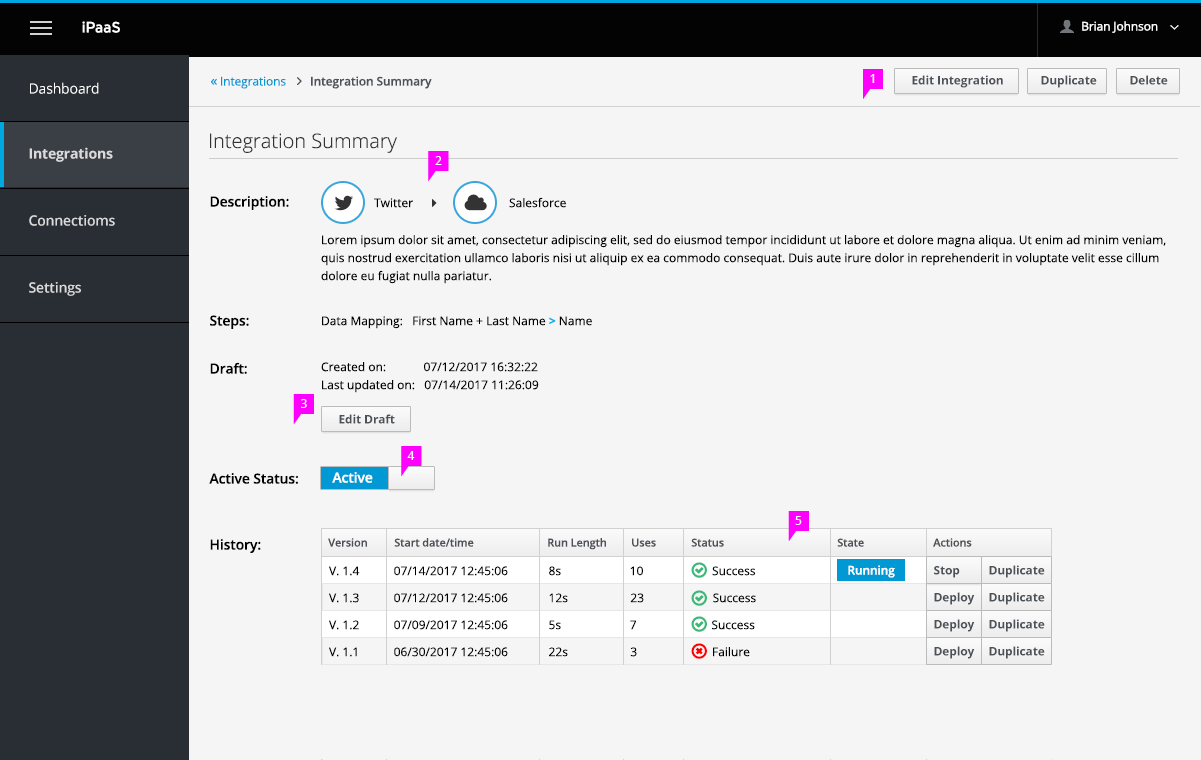
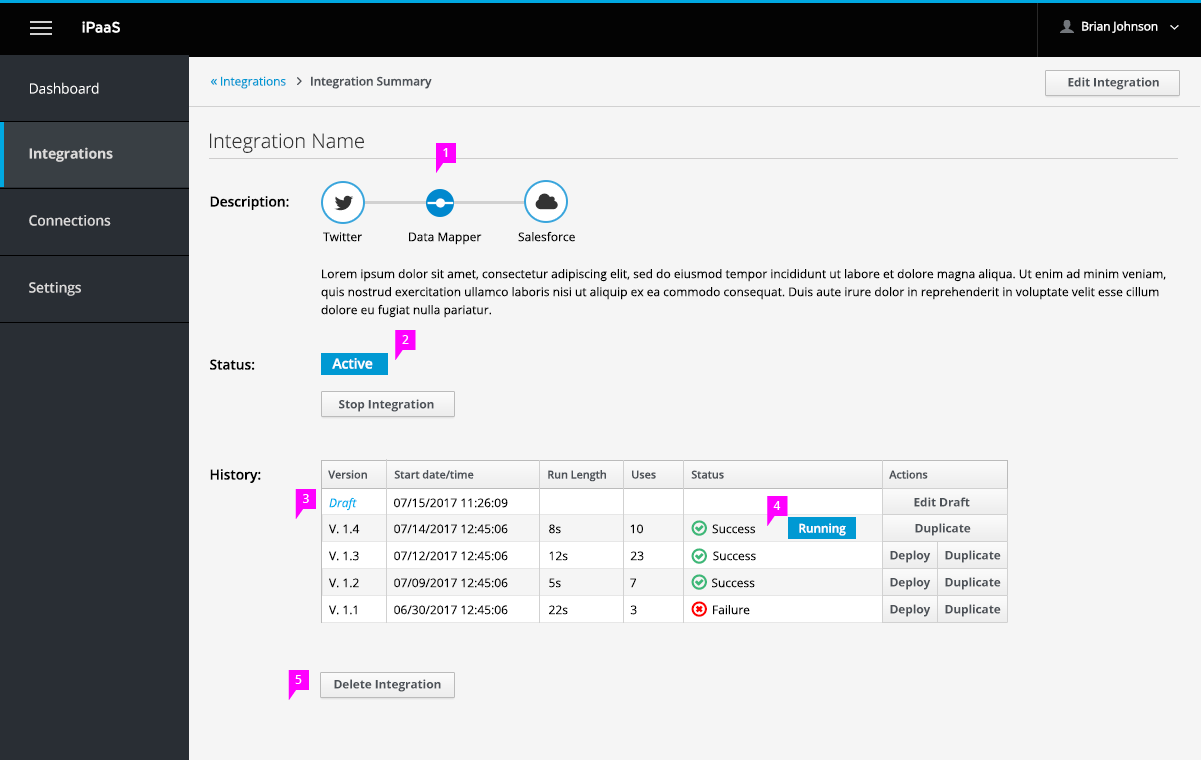
Updates to the integration summary designs based on feedback

diff --git a/designs/integrationsummary/integrationsummary.md b/designs/integrationsummary/integrationsummary.md
@@ -1,19 +1,22 @@
 # Integration Summary Page
 
-When a user create an integration and deploys or saves it, user will be taken to this page to review summary of integration. User can also get back to this page by clicking on integration from the Integration list page.
+When a user create an integration and deploys or saves it, user will be taken to this page to review summary of integration. User can also get back to this page by clicking on the integration from the Integration list page.
 
 ![Image of choosing connection](img/integrationsummary.png)
 
-1. **Action Bar**: Actions include editing, deleting and duplicating.
-1. Integration description shown in full along with Steps that were added to integration
-1. If a draft exists, show details of when draft was created and last edited if applicable. Also have button to edit draft.
-1. Toggle switch to show status of integration. User can changed status of integration here as well.
+1. **Description**: Integration visual summary shown in horizontal orientation. Description shown in full.
+1. Label showing if integration is active or not. Button shown under label to change status of integration.
+1. If a draft exists, it will be shown at top of table with date it was last edited. Action button will be to Edit Draft.
 1. **History**: shows the history of the integration and version details.
   - With each new deployment of an integration, a new version is created.
   - Only one version is running at a given time (shown in table).
   - User can also choose to deploy previous versions (but can't edit older versions).
   - User can also Duplicate versions to use as a blueprint.
+  - For the version that is currently running, only Duplicate button will be available along with label showing which version is running.
+1. Delete integration button can be found at the bottom. Will delete whole integration including all versions and a draft if it exists.
 
 ![Image of choosing object](img/integrationsummary2.png)
 
-1. If no draft exists, then show this message instead
+1. User can also choose to edit integration from action bar found at top of page. If no draft exists, selecting this button will create a new draft. If a draft exists, selecting this button will open existing draft.
+1. Shows how the other integration status's would appear. If user selects the "Run Integration" button when it's inactive, it will deploy the latest integration version
+1. If integration is inactive, there will be no label showing which version is running. User can choose to deploy any version.
